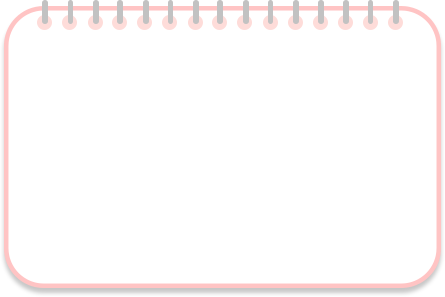
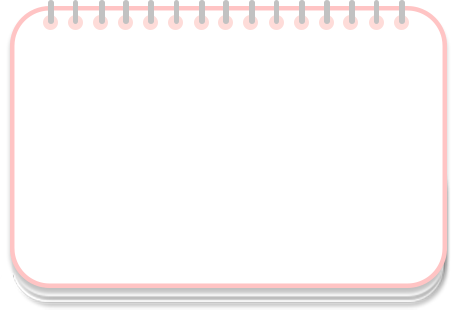
디자인 수정

diff --git a/knowing_sounds/select_01.html b/knowing_sounds/select_01.html
@@ -98,27 +98,35 @@
                 </div>
             </div>
             <div class="finish s_01">
-                <div class="finish-wrap type-1">
-                    <div class="flex-box">
-                        <div class="img">
-                            <div class="txt">
-                                <div class="finish-animation"></div>
-                                <img src="img/bg/bg_finish.png" />
+                <div class="container">
+                    <div class="finish-wrap type-1">
+                        <div class="flex-box">
+                            <div class="img">
+                                <div class="txt">
+                                    <div class="finish-animation"></div>
+                                    <img src="img/bg/bg_finish.png" />
+                                </div>
+                                <div class="finish-box">
+                                    <div></div>
+                                    <div></div>
+                                    <div></div>
+                                    <div></div>
+                                </div>
+                                <div class="answer-wrap">
+                                    <div><img src="img/content_01/answer_01.png" /></div>
+                                    <div><img src="img/content_01/answer_02.png" /></div>
+                                    <div><img src="img/content_01/answer_03.png" /></div>
+                                    <div><img src="img/content_01/answer_04.png" /></div>
+                                </div>
                             </div>
-                            <div class="finish-box">
-                                <div></div>
-                                <div></div>
-                                <div></div>
-                                <div></div>
+                            <div class="btn-wrap">
+                                <a href="javascript:void(0)" class="btn-more btn-effect btn-hover">
+                                    <span class="sr-only">더 알아보기</span>
+                                </a>
+                                <a href="main.html" class="btn-out btn-effect btn-hover">
+                                    <span class="sr-only">나가기</span>
+                                </a>
                             </div>
-                        </div>
-                        <div class="btn-wrap">
-                            <a href="javascript:void(0)" class="btn-more btn-effect btn-hover">
-                                <span class="sr-only">더 알아보기</span>
-                            </a>
-                            <a href="main.html" class="btn-out btn-effect btn-hover">
-                                <span class="sr-only">나가기</span>
-                            </a>
                         </div>
                     </div>
                 </div>

diff --git a/knowing_sounds/select_02.html b/knowing_sounds/select_02.html
@@ -49,24 +49,26 @@
                 </div>
             </div>
             <div class="finish">
-                <div class="finish-wrap">
-                    <div class="flex-box">
-                        <div class="img">
-                            <div class="txt">
-                                <div class="finish-animation"></div>
-                                <img src="img/bg/bg_finish.png" />
+                <div class="container">
+                    <div class="finish-wrap">
+                        <div class="flex-box">
+                            <div class="img">
+                                <div class="txt">
+                                    <div class="finish-animation"></div>
+                                    <img src="img/bg/bg_finish.png" />
+                                </div>
+                                <div class="finish-box type-2">
+                                    <img src="img/content_02/finish_img.png" />
+                                </div>
                             </div>
-                            <div class="finish-box">
-                                <img src="img/content_02/finish_img.png" />
+                            <div class="btn-wrap">
+                                <a href="javascript:void(0)" class="btn-more btn-effect btn-hover">
+                                    <span class="sr-only">더 알아보기</span>
+                                </a>
+                                <a href="main.html" class="btn-out btn-effect btn-hover">
+                                    <span class="sr-only">나가기</span>
+                                </a>
                             </div>
-                        </div>
-                        <div class="btn-wrap">
-                            <a href="javascript:void(0)" class="btn-more btn-effect btn-hover">
-                                <span class="sr-only">더 알아보기</span>
-                            </a>
-                            <a href="main.html" class="btn-out btn-effect btn-hover">
-                                <span class="sr-only">나가기</span>
-                            </a>
                         </div>
                     </div>
                 </div>

diff --git a/knowing_sounds/css/common.css b/knowing_sounds/css/common.css
@@ -143,6 +143,7 @@ img{
 }
 
 .btn-select.btn-select-01:hover{
+    left: 26%;
     background-image: url(../img/icon/ico_select_01_hover.png);
 }
 
@@ -156,7 +157,8 @@ img{
 }
 
 .btn-select.btn-select-02:hover{
-     background-image: url(../img/icon/ico_select_02_hover.png);
+    right: 26%;
+    background-image: url(../img/icon/ico_select_02_hover.png);
 }
 
 .btn-select.btn-select-02:active{
@@ -212,13 +214,13 @@ img{
     position: relative;
     flex-direction: column;
     justify-content: flex-start;
-    max-width: 55%;
     width: 100%;
     padding-top: 10%;
 }
 
+
 .finish-wrap.type-1 .flex-box{
-    padding-top: 18%;
+    padding-top: 10%;
 }
 
 
@@ -269,30 +271,42 @@ img{
     position: relative;
 }
 
+.finish-wrap .finish-box.type-2{
+    margin:0 auto;
+    max-width: 74%;
+}
+
 .btn-wrap{
+    position: absolute;
+    bottom: 5%;
     width: 100%;
-    height: 14.74%;
-    margin-top:6%;
+    height: 10.74%;
     display: flex;
     justify-content: center;
     gap: 2%;
     z-index: 10;
 }
 .btn-wrap a{
+    width: 16%;
     display: block;
-    width: 30%;
     height: 100%;
     background-size: contain;
     background-repeat: no-repeat;
 }
 
 .btn-wrap a:nth-child(1){
+    
     background-image: url("../img/icon/ico_more.png");
 }
 
 .btn-wrap a:nth-child(1):active{
     background-image: url("../img/icon/ico_more_click.png");
 }
+
+.btn-wrap a:nth-child(1):hover{
+    background-image: url("../img/icon/ico_more_over.png");
+}
+
 
 .btn-wrap a:nth-child(2){
     background-image: url("../img/icon/ico_exit.png");

diff --git a/knowing_sounds/css/contents.css b/knowing_sounds/css/contents.css
@@ -9,7 +9,7 @@
 }
 
 .finish.s_01 .flex-box{
-    max-width: 85%;
+    max-width: 100%;
 }
 
 .finish.s_01 .finish-wrap .txt img{
@@ -18,12 +18,13 @@
 
 .finish.s_01 .flex-box .img{
     width: 100%;
-    height: 35%;
+    height: 34%;
     margin-top:3%;
 }
 
 .finish.s_01 .finish-box{
     height: 100%;
+    z-index: 2;
 }
 
 .finish.s_01 .finish-box > div{
@@ -40,15 +41,10 @@
     width: 100%;
 }
 
-.finish.s_01 .btn-wrap a{
-    width: 18%;
-}
-
 .select-01 .board{
     position: relative;
     width: 72.78%;
-    height: 100%;
-    
+    height: 100%; 
 }
 
 .select-01 .board-top{
@@ -67,6 +63,40 @@
     border-radius: 2rem;
     background-color: #fff;
     overflow: hidden;
+}
+
+.finish.s_01 .answer-wrap{
+    display: flex;
+    justify-content: center;
+    width: 100%;
+    height: 100%;
+}
+
+.finish.s_01 .answer-wrap > div{
+    width: 24%;
+    height: 100%;
+    position: relative;
+    padding: 1%;
+    text-align: center;
+}
+
+.finish.s_01 .answer-wrap > div img{
+    position: relative;
+    object-fit: contain;
+    z-index: 2;
+}
+
+.finish.s_01 .answer-wrap > div::before{
+    content: '';
+    position: absolute;
+    top: -25%;
+    left: 54%;
+    transform: translateX(-50%);
+    width: 90%;
+    height: 100%;
+    background-image: url(../img/content_01/finish_answer.png);
+    background-size: contain;
+    background-repeat: no-repeat;
 }
 
 
